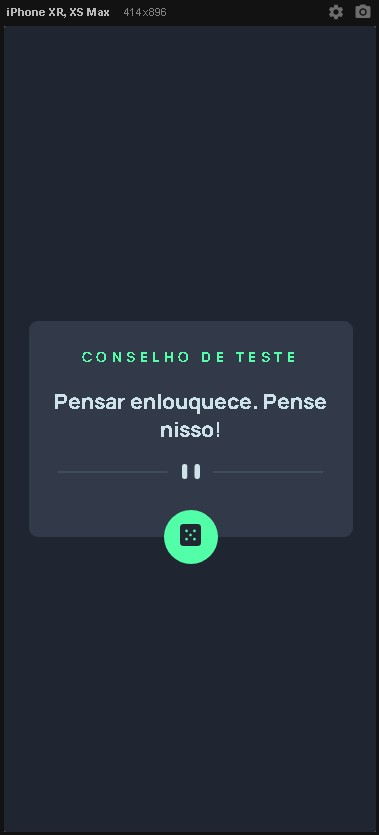
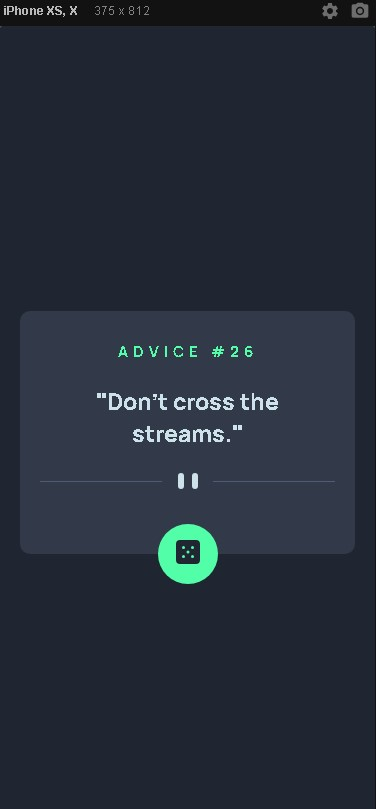
Adicionado o Javascript, mantendo o HTML e CSS o mais proximo do original. Atualizadas as Screen Caps do Design.

diff --git a/index.html b/index.html
@@ -27,6 +27,7 @@
             <button class="atualiza-conselho">
                 <img src="./src/images/icon-dice.svg" alt="Ícone de dado">
             </button>
+            <!-- Adicionado o módulo Javascript em 06/11/2023 -->
         </div>
     </main>
     <script src="./src/js/script.js"></script>

diff --git a/src/js/script.js b/src/js/script.js
@@ -15,3 +15,5 @@ async function getAdvice() {
 adviceUpdateButton.addEventListener("click", getAdvice);
 
 getAdvice();
+
+// Criado em 06/11/2023
